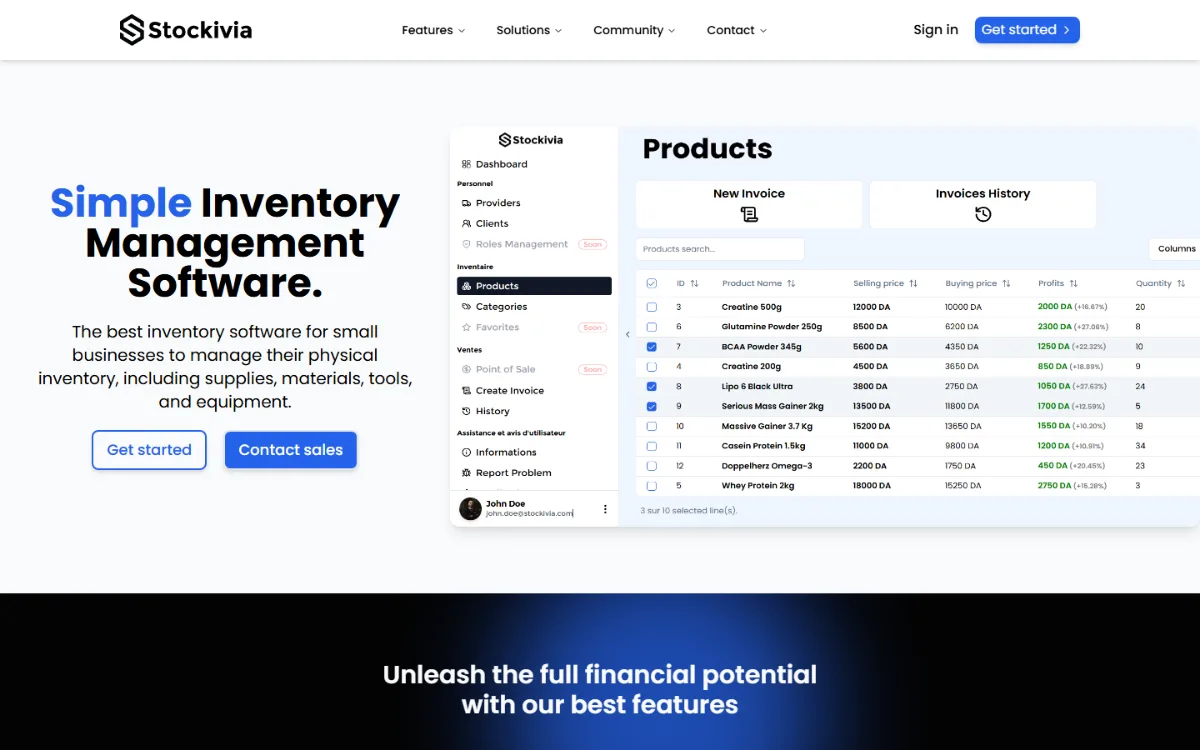
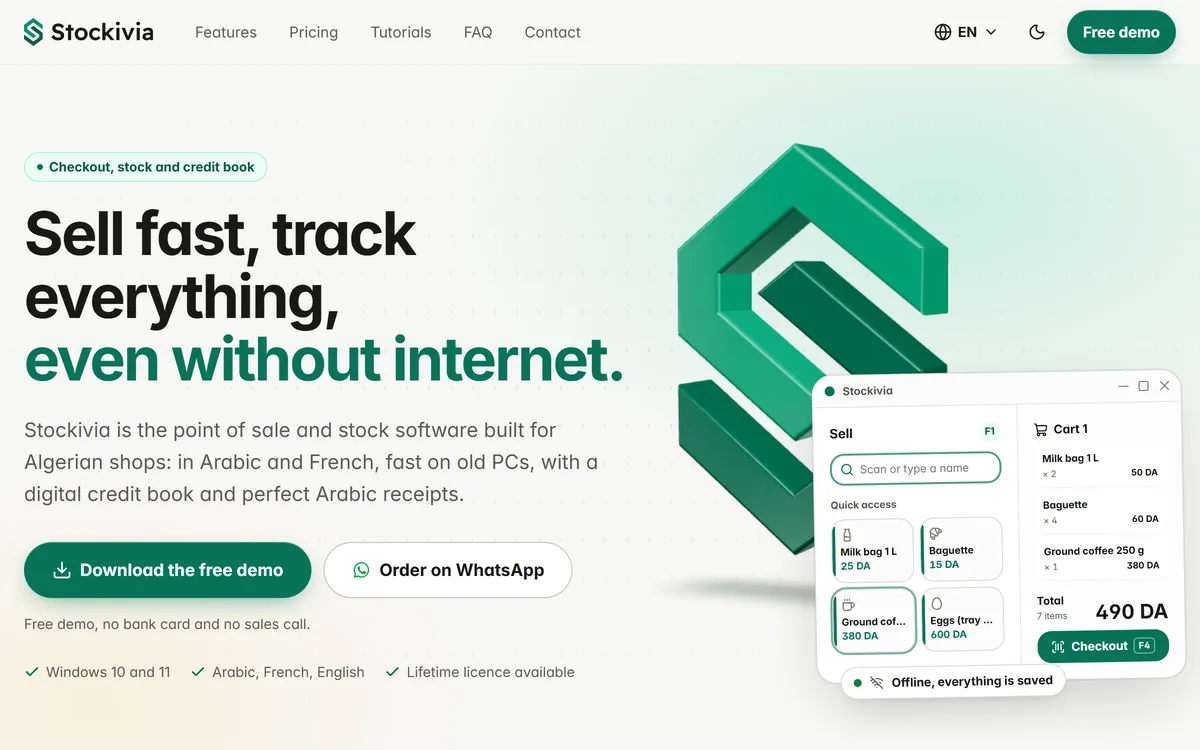
Point Stockivia at stockivia.com and reshoot its card
The product moved off the vercel.app preview onto its own domain and
the site was redesigned around the offline point of sale, so the old
preview no longer matched. Captured from the live English homepage.

diff --git a/portfolio/src/data.js b/portfolio/src/data.js
@@ -127,8 +127,8 @@ export const projects = [
   {
     slug: "stockivia",
     name: "Stockivia",
-    host: "stockivia-app.vercel.app",
-    href: "https://stockivia-app.vercel.app/",
+    host: "stockivia.com",
+    href: "https://stockivia.com/",
     image: "/projects/stockivia.webp",
     kind: "Business software",
     year: "2023",
